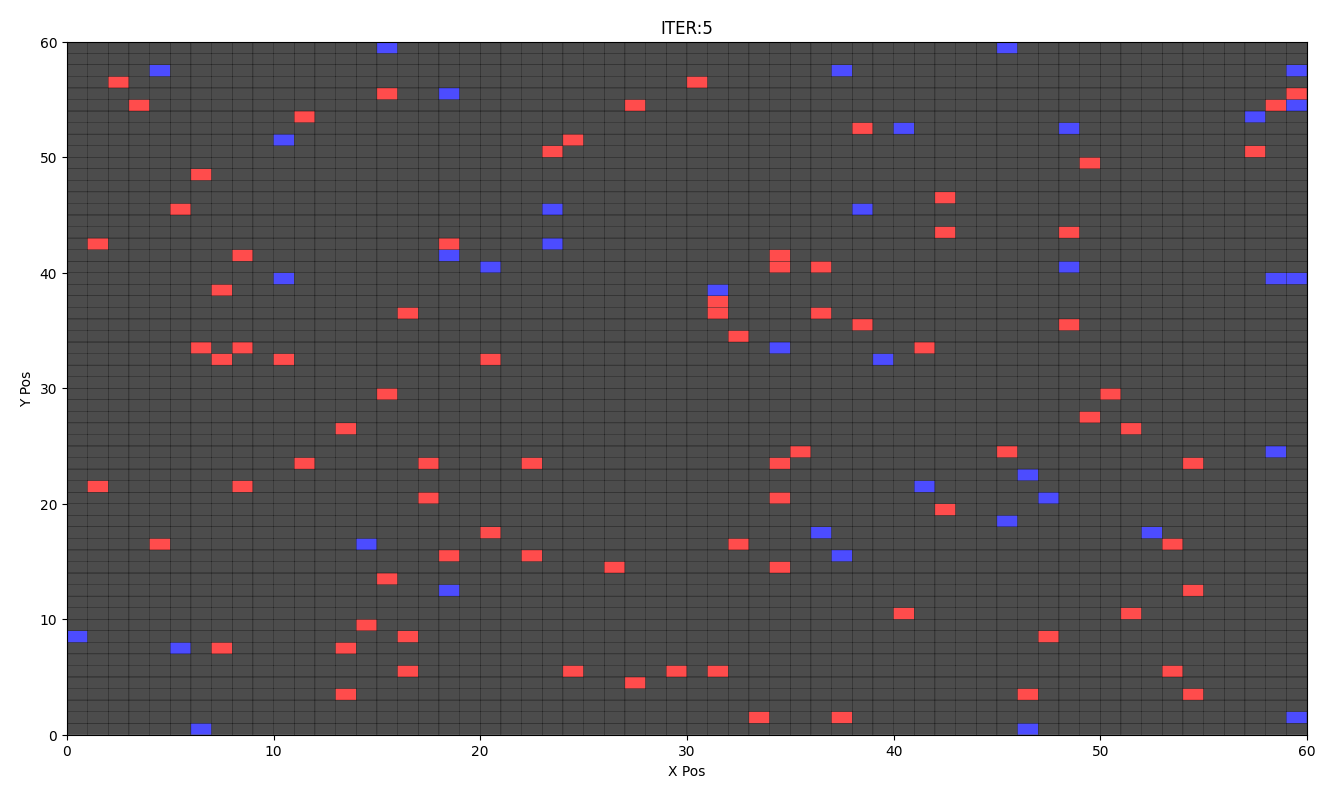
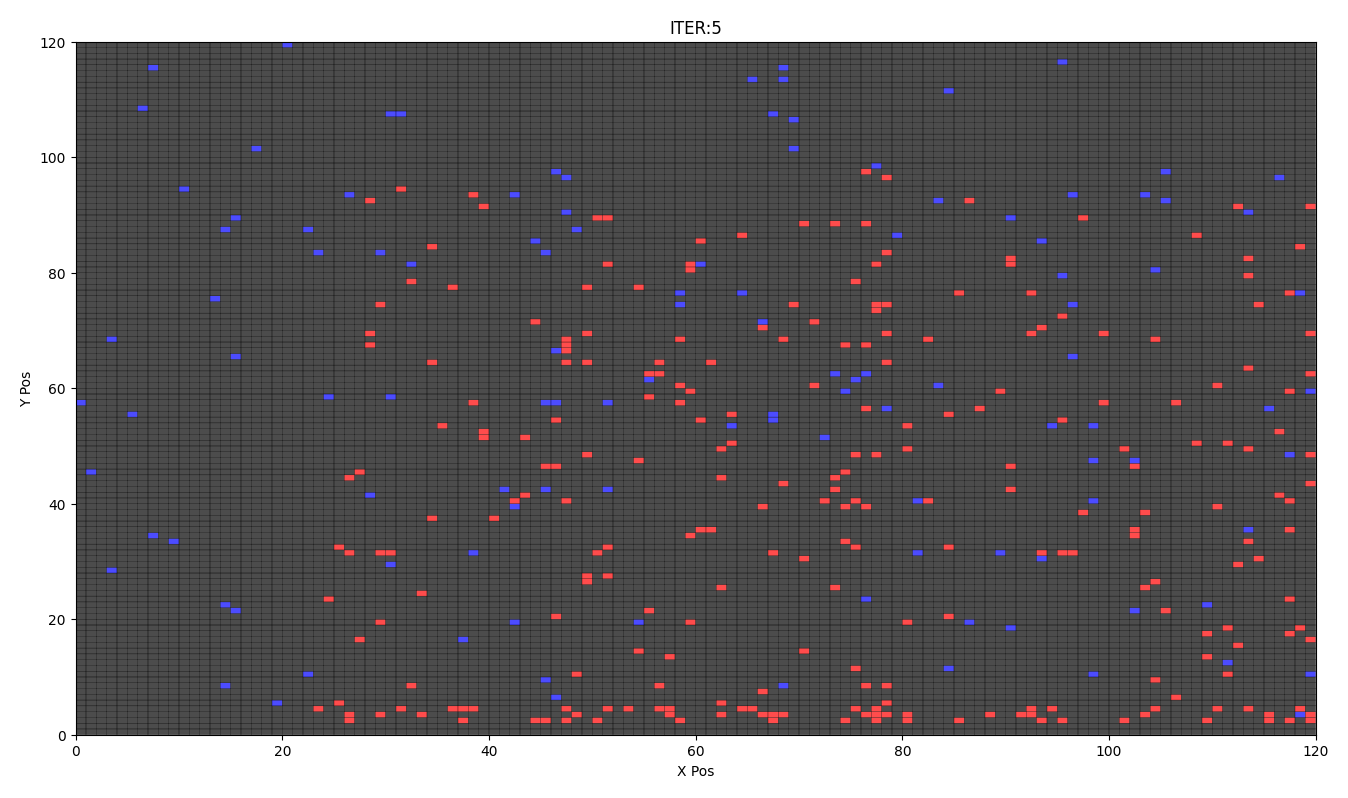
Update

diff --git a/moth.py b/moth.py
@@ -1,7 +1,35 @@
 import numpy
 
-#Returns tuple(x,y) delta to the nearest light 
-def findClosestEntity(grid:numpy.ndarray, mothX:int, mothY:int, entityToFind:str='L'):
+### Rules
+def tryDeath(grid:numpy.ndarray, mothPos:numpy.ndarray ):
+    lightDist = findClosestEntity(grid, mothPos, entityToFind ='L')
+    if math.sqrt((lightDist[0])**2 + lightDist[1]**2) >= 2:
+        return 0
+    else:
+        math.sqrt((lightDist[0]) ** 2 + lightDist[1] ** 2) < 2
+        return 1
+
+def tryBirth(grid:numpy.ndarray, mothPos:numpy.ndarray):
+    mothDist = moth.findClosestEntity(grid, mothPos, entityToFind = 'M')
+    if math.sqrt((mothDist[0])**2 + mothDist[1]**2) >=2:
+        # find a nearby 0 and replace it to be a 1 somehow
+        pass
+    if math.sqrt((mothDist[0])**2 + mothDist[1]**2) <2:
+        return 2
+
+### Movement
+def _Move(grid:numpy.ndarray, mothPos:numpy.ndarray, mothDeltaPos:numpy.ndarray):
+    try:
+        grid[tuple(mothPos+mothDeltaPos)] = 1
+        grid[tuple(mothPos)] = 0
+    except IndexError:
+        print(f"Cannot move moth ")
+
+def tryMovement(grid:numpy.ndarray, mothPos:numpy.ndarray):
+    _Move(grid, mothPos, findNextMove(grid, mothPos))
+
+#Returns ndarray(x,y) delta to the nearest light 
+def findClosestEntity(grid:numpy.ndarray, mothPos:numpy.ndarray, entityToFind:str='L'):
     shape = grid.shape
     if entityToFind == 'L':
         entityToFind = 2
@@ -11,20 +39,21 @@ def findClosestEntity(grid:numpy.ndarray, mothX:int, mothY:int, entityToFind:str
         raise TypeError(f"EntityType {entityToFind} is not valid")
 
     for i in range(-shape[0],shape[0]): 
-        if (mothX+i >= shape[0]) or (mothX+i < 0):
+        if (mothPos[0]+i >= shape[0]) or (mothPos[0]+i < 0):
             continue
 
         for j in range(-shape[1],shape[1]):
-            if (mothY+j >= shape[1]) or (mothY+j < 0):
+            if (mothPos[1]+j >= shape[1]) or (mothPos[1]+j < 0):
                 continue
 
-            if (grid[mothX+i][mothY+j] == entityToFind):
-                return (i,j)
+            if (grid[tuple(mothPos + numpy.array([i,j]))] == entityToFind):
+                return numpy.array([i,j])
 
-def nextMove(grid:numpy.ndarray, mothX:int, mothY:int):
+#Returns ndarray(x,y) delta to move to the nearest light 
+def findNextMove(grid:numpy.ndarray, mothPos:numpy.ndarray):
     deltaX, deltaY = 0,0
-    lightRelPos = findClosestEntity(grid,mothX,mothY,'L')
-    print(lightRelPos)
+    lightRelPos = findClosestEntity(grid, mothPos,'L')
+    #print(lightRelPos)
     max_movement = 5
     
     factorX = -1 if lightRelPos[0] < 0 else 1
@@ -46,4 +75,4 @@ def nextMove(grid:numpy.ndarray, mothX:int, mothY:int):
     deltaX += numpy.random.choice((-1,0,1))
     deltaY += numpy.random.choice((-1,0,1))
     
-    return (deltaX, deltaY)
+    return numpy.array([deltaX, deltaY])

diff --git a/main.py b/main.py
@@ -1,5 +1,6 @@
 import numpy
 from matplotlib import pyplot, colors
+import re
 
 #  _._     _,-'""`-._
 # (,-.`._,'(       |\`-/|
@@ -14,7 +15,10 @@ import moth
 import rules
 #import lights
 
-class c_Grid:
+import imageio.v2 as imageio
+import glob
+
+class c_Grid: #Class of numpy array, with graph and update func
     def __init__(self, grid:numpy.array, colorset:list=['#000000','#FF0000','#0000FF']):
         # black = nothing
         # red - moths
@@ -25,7 +29,7 @@ class c_Grid:
         self._ColorSet = colors.ListedColormap(colorset)
 
     def display(self, show_plot:bool=False):
-        print(self._CurrentState)
+        #print(self._CurrentState)
         if show_plot == True:
             fig,ax1 = pyplot.subplots(nrows=1,ncols=1, figsize=(16,9))
             ax1.pcolor(self._CurrentState, cmap=self._ColorSet, edgecolor='#000000', alpha=0.7)
@@ -36,25 +40,41 @@ class c_Grid:
             pyplot.close()
 
     def update(self):
-        tempState = self._CurrentState
+        newState = self._CurrentState.copy()
         #Iterating thru every pos
         
-        for i in range(tempState.shape[0]):
-            for j in range(tempState.shape[1]):
-                rules.update()
+        rules.update(self._CurrentState, newState)
 
-        tempState += 1
-        self._CurrentState = tempState
+        self._CurrentState = newState
         self._Index += 1
         self.display(show_plot=True)
 
-MyGrid = c_Grid(numpy.random.choice([0,1, 2],(60,60),p=[0.965, 0.025, 0.010]))
+def numerical_sort_key(s):
+    # Splits the string into a list of number and non-number parts
+    return [int(text) if text.isdigit() else text.lower()
+            for text in re.split('([0-9]+)', s)]
+
+def create_gif():
+    # gather all plots, sort by file name using the numerical key
+    plots = sorted(glob.glob("out/graph_**.png"), key=numerical_sort_key) # <-- FIX IS HERE
+
+    # read and compile into a GIF
+    images = [imageio.imread(p) for p in plots]
+    imageio.mimsave('out/graphs.gif', images, fps=5)
+
+
+
+### Start Running
+numpy.random.seed(0)
+
+MyGrid = c_Grid(numpy.random.choice([0,1, 2],(120,120),p=[0.965, 0.025, 0.010]))
 
 MyGrid.display(show_plot=True)
-for i in range(5):
+for i in range(60):
     MyGrid.update()
+create_gif()
 
-def plotDynamics(data):
+def plotDynamics(data): #MOVE AWAY
     fig, axes = pyplot.subplots(figsize=(7, 6))
     axes.plot(data[0], data[2], label='moths', color='blue')  # Plot the moth population over time
     axes.plot(data[0], data[3], label='lights', color='red')  # Plot the light population over time

diff --git a/rules.py b/rules.py
@@ -3,24 +3,6 @@ import moth
 import math
 
 
-def moth_death(grid, x, y ):
-    lightDist = moth.findClosestEntity(grid,x,y, entityToFind ='L')
-    if math.sqrt((lightDist[0])**2 + lightDist[1]**2) >= 2:
-        return 0
-    else:
-        math.sqrt((lightDist[0]) ** 2 + lightDist[1] ** 2) < 2
-        return 1
-
-def moth_birth(grid, x, y):
-    mothDist = moth.findClosestEntity(grid, x, y, entityToFind = 'M')
-    if math.sqrt((mothDist[0])**2 + mothDist[1]**2) >=2:
-        # find a nearby 0 and replace it to be a 1 somehow
-        pass
-    if math.sqrt((mothDist[0])**2 + mothDist[1]**2) <2:
-        return 2
-
-
-
 def lights():
     pass
 
@@ -31,5 +13,28 @@ def dimming():
 def mothMove():
     pass
 
-def update(): #a function that checks what square it is, and calls the other functions accordingly
+def updateMoth(oldGrid:np.ndarray, newGrid:np.ndarray,x:int, y:int):
+    #print(f"Updating Moth:{x}:{y}")
+    moth.tryMovement(newGrid, np.array([x,y]))
     pass
+def updateLight(oldGrid:np.ndarray, newGrid:np.ndarray,x:int, y:int):
+    #print(f"Updating Light:{x}:{y}")
+    pass
+def updateEmpty(oldGrid:np.ndarray, newGrid:np.ndarray,x:int, y:int):
+    #print(f"Updating Empty:{x}:{y}")
+    return
+    
+
+def update(oldGrid:np.ndarray, newGrid:np.ndarray): #a function that checks what square it is, and calls the other functions accordingly
+    for i in range(oldGrid.shape[0]):
+            for j in range(oldGrid.shape[1]):
+                if (oldGrid[i][j] == 0):
+                    updateEmpty(oldGrid=oldGrid, newGrid=newGrid, x=i,y=j)
+                elif (oldGrid[i][j] == 1):
+                    updateMoth(oldGrid=oldGrid, newGrid=newGrid, x=i,y=j)
+                elif (oldGrid[i][j] == 2):
+                    updateLight(oldGrid=oldGrid, newGrid=newGrid, x=i,y=j)
+                else:
+                    print(f"Wrong Value {i}:{j}")
+    
+    
